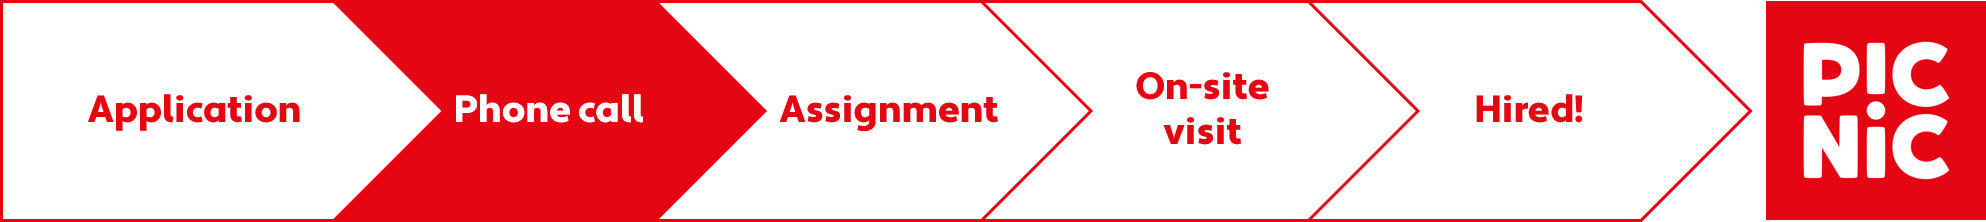
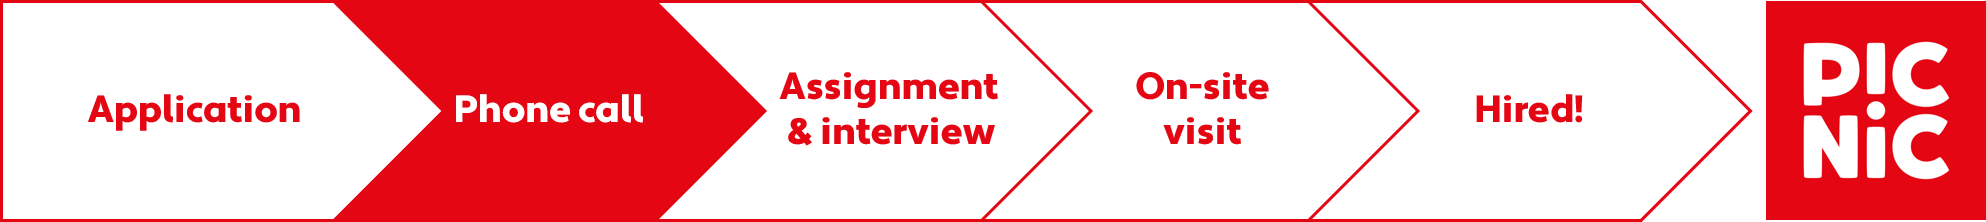
Deploy PicnicSupermarket/hiring-experience to github.com/PicnicSupermarket/hiring-experience.git:gh-pages

Changed region(s): [[0.3746, 0.3243, 0.4995, 0.6486]]

diff --git a/index.html b/index.html
@@ -5,6 +5,7 @@
 <!--[if IE]><meta http-equiv="X-UA-Compatible" content="IE=edge"><![endif]-->
 <meta name="viewport" content="width=device-width, initial-scale=1.0">
 <meta name="generator" content="Asciidoctor 1.5.6.1">
+<link rel="shortcut icon" type="image/x-icon" href="images/favicon.ico">
 <title>What is Picnic? 🚚</title>
 <link rel="stylesheet" href="https://fonts.googleapis.com/css?family=Open+Sans:300,300italic,400,400italic,600,600italic%7CNoto+Serif:400,400italic,700,700italic%7CDroid+Sans+Mono:400,700">
 <style>
@@ -528,8 +529,8 @@ table.CodeRay td.code>pre{padding:0}
 <li><a href="#_picnic_s_hiring_experience">Picnic&#8217;s Hiring Experience</a>
 <ul class="sectlevel2">
 <li><a href="#_application">Application</a></li>
-<li><a href="#_phone_call">Phone Call</a></li>
-<li><a href="#_assignment">Assignment</a></li>
+<li><a href="#_phone_call">Phone call</a></li>
+<li><a href="#_assignment_interview">Assignment &amp; interview</a></li>
 <li><a href="#_on_site_visit">On-site visit</a></li>
 <li><a href="#_hired">Hired!</a></li>
 </ul>
@@ -827,7 +828,7 @@ can take up to 48 hours until you hear back from us.</p>
 </div>
 </div>
 <div class="sect2">
-<h3 id="_phone_call">Phone Call</h3>
+<h3 id="_phone_call">Phone call</h3>
 <div class="ulist">
 <ul>
 <li>
@@ -897,19 +898,21 @@ sure you&#8217;re able to give us a quick explanation.</p>
 </div>
 </div>
 <div class="sect2">
-<h3 id="_assignment">Assignment</h3>
+<h3 id="_assignment_interview">Assignment &amp; interview</h3>
 <div class="ulist">
 <ul>
 <li>
-<p>Duration: ~ 1 week (highly dependent on speed)</p>
+<p>Duration: 1 to 2 weeks (dependent on speed)</p>
 </li>
 <li>
-<p>What is expected of you:</p>
-<div class="paragraph">
-<p>You&#8217;ve had a good chat with your recruiter, and now it&#8217;s time to get
+<p>Assignment:</p>
+<div class="ulist">
+<ul>
+<li>
+<p>What is expected of you:
+You&#8217;ve had a good chat with your recruiter, and now it&#8217;s time to get
 down to business. Depending on the position you&#8217;re applying for, the assignment will
 have different goals and requirements, but they all share commonalities:</p>
-</div>
 <div class="ulist">
 <ul>
 <li>
@@ -931,13 +934,44 @@ recruiter may come back to you to check-in and see if you need any help.</p>
 </div>
 </li>
 <li>
-<p>What happens in the background:</p>
-<div class="paragraph">
-<p>Once you&#8217;ve submitted your assignment, two members of the tech team will
+<p>What happens in the background:
+Once you&#8217;ve submitted your assignment, two members of the tech team will
 take a look independently, and then join and discuss. They will then
 share their feedback with your recruiter, and together, they will decide
-whether to invite you to the last stage of the process: an on-site
-visit.</p>
+whether to invite you to the next stage: the technical interview.</p>
+</li>
+</ul>
+</div>
+</li>
+<li>
+<p>Interview</p>
+<div class="ulist">
+<ul>
+<li>
+<p>What is expected of you:
+Before the interview, we recommend you go over your work and prepare to answer any questions regarding your solution. The interview lasts roughly an hour and is divided into three main sections:</p>
+<div class="ulist">
+<ul>
+<li>
+<p>Introduction:
+Your interviewers will introduce themselves and ask you to do the same.</p>
+</li>
+<li>
+<p>Assignment:
+This is the important part. The developers will focus on certain decisions you have made when working out your solution, so make sure you&#8217;re able to communicate them clearly.</p>
+</li>
+<li>
+<p>Questions:
+If you have any questions (especially technical ones), now is the time to ask. 😉</p>
+</li>
+</ul>
+</div>
+</li>
+<li>
+<p>What happens in the background:
+Once the interview is over, the developers will share their feedback with your recruiter, and together, they will decide whether to invite you to the last stage of the process: an on-site visit.</p>
+</li>
+</ul>
 </div>
 </li>
 </ul>
@@ -974,7 +1008,7 @@ best way for us to see who you are.</p>
 <p>When you arrive at the office, your recruiter will be there to welcome
 you. After a drink and a quick tour of the office, you&#8217;ll be shown to
 your first meeting. Halfway into the day, you&#8217;ll share lunch with some
-team members (on us 😉) and when everything is said in done, you&#8217;ll sit
+team members (on us 😉) and when everything is said and done, you&#8217;ll sit
 with your recruiter to share some feedback. During the day, your
 recruiter will be meeting with the different people you met with to get
 a sense of how the day is going, and before the final meeting with your
